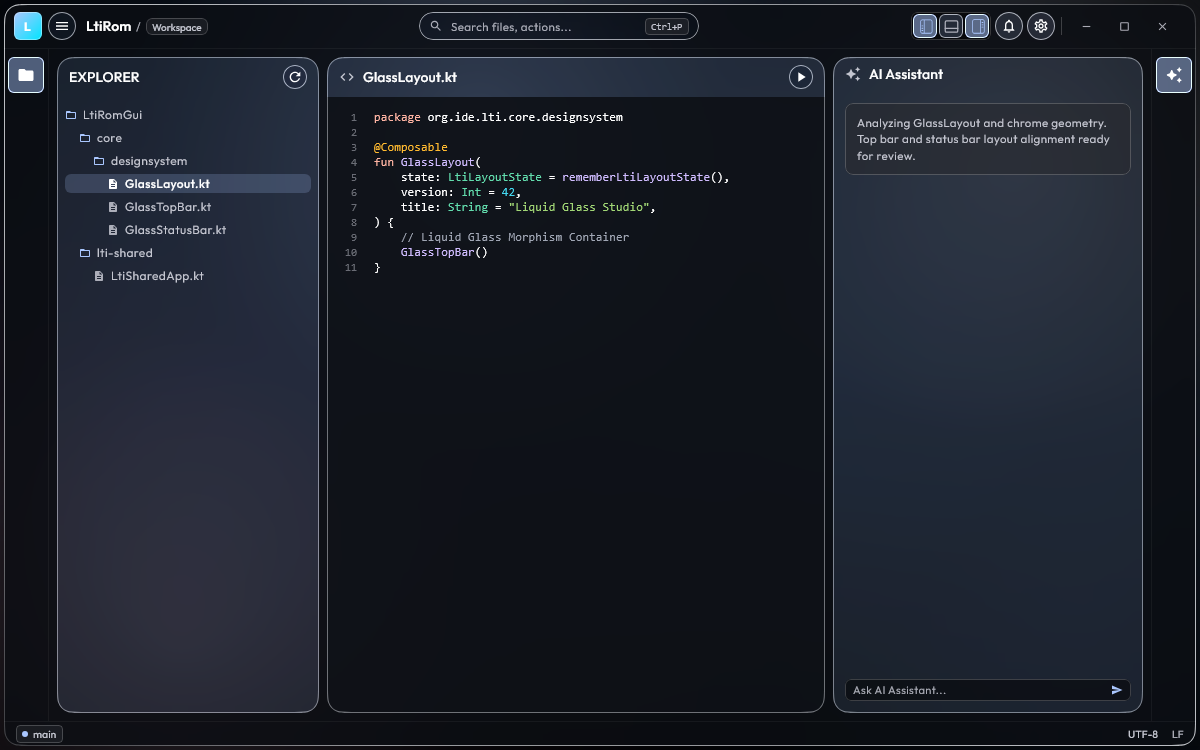
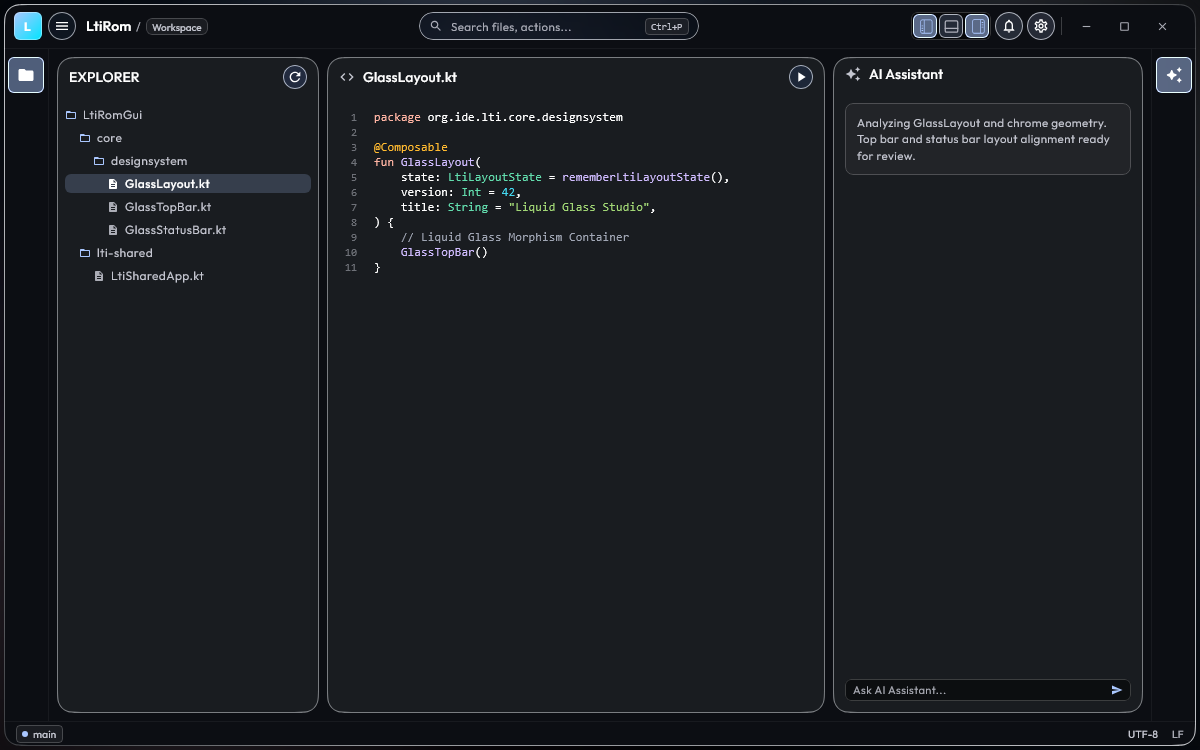
Make chrome/canvas surfaces opaque, matching a real reference IDE
The outer chrome frame and inner content panels (Explorer, editor, AI
Assistant) were translucent glass surfaces sampling the aurora backdrop,
so their on-screen color drifted with whatever was behind them rather
than reading as flat, professional dark/light grays.

Added chromeSurface (surfaceContainerLowest) and repointed canvasSurface
to surfaceContainerLow, both fully opaque instead of alpha-blended. This
puts the chrome frame one step darker (dark theme) / one step grayer
(light theme) than the content panels, matching a Fleet IDE reference
screenshot almost exactly: measured #0C0E13 outer / #191C20 inner against
a #090909 / #18191B reference. Editor, Explorer, and AI panels are now
the same uniform shade, as in the reference, instead of three
independently-sampled translucent surfaces.

Derived from the same seed-color HCT ladder as every other token, so it
holds correctly in both dark and light themes rather than being a fixed
pair of hex values.

Claude-Session: https://claude.ai/code/session_0159mNcRLJay2RPBEyxhqFt6

Changed region(s): [[0.0308, 0.0613, 0.9558, 0.92]]

diff --git a/core/designsystem/src/commonMain/kotlin/org/ide/lti/core/designsystem/theme/Color.kt b/core/designsystem/src/commonMain/kotlin/org/ide/lti/core/designsystem/theme/Color.kt
@@ -153,6 +153,7 @@ fun deriveDiagnosticColors(
 data class GlassColorScheme(
     val glassSurface: Color,
     val glassSurfaceElevated: Color,
+    val chromeSurface: Color,
     val canvasSurface: Color,
     val glassTint: Color,
     val glassTintSecondary: Color,
@@ -188,7 +189,8 @@ fun dynamicGlassColorScheme(
         GlassColorScheme(
             glassSurface = colorScheme.surface.copy(alpha = AlphaTokens.Elevated),
             glassSurfaceElevated = colorScheme.surfaceContainerHigh.copy(alpha = AlphaTokens.Prominent),
-            canvasSurface = colorScheme.surfaceContainerLowest.copy(alpha = AlphaTokens.PrimaryButtonTint),
+            chromeSurface = colorScheme.surfaceContainerLowest,
+            canvasSurface = colorScheme.surfaceContainerLow,
             glassTint = colorScheme.primary.copy(alpha = AlphaTokens.Glow),
             glassTintSecondary = colorScheme.secondary.copy(alpha = AlphaTokens.Glow),
             glassBorder = colorScheme.onSurface.copy(alpha = AlphaTokens.Hover),
@@ -207,7 +209,8 @@ fun dynamicGlassColorScheme(
         GlassColorScheme(
             glassSurface = colorScheme.surface.copy(alpha = AlphaTokens.IconTint),
             glassSurfaceElevated = colorScheme.surfaceContainerHighest.copy(alpha = AlphaTokens.PrimaryButtonTint),
-            canvasSurface = colorScheme.surfaceContainerLowest.copy(alpha = AlphaTokens.PrimaryButtonTint),
+            chromeSurface = colorScheme.surfaceContainer,
+            canvasSurface = colorScheme.surfaceContainerLowest,
             glassTint = colorScheme.primary.copy(alpha = AlphaTokens.Subtle),
             glassTintSecondary = colorScheme.secondary.copy(alpha = AlphaTokens.Subtle),
             glassBorder = colorScheme.outline.copy(alpha = AlphaTokens.Medium),

diff --git a/core/designsystem/src/commonMain/kotlin/org/ide/lti/core/designsystem/component/GlassLayout.kt b/core/designsystem/src/commonMain/kotlin/org/ide/lti/core/designsystem/component/GlassLayout.kt
@@ -227,7 +227,7 @@ fun GlassLayout(
             },
         shape = panelShape,
         backdrop = actualBackdrop,
-        surfaceColor = glassColors.canvasSurface,
+        surfaceColor = glassColors.chromeSurface,
         tint = Color.Transparent,
         borderColor = glassColors.glassBorder,
         borderWidth = StrokeWidth.Hairline,
@@ -388,8 +388,8 @@ private fun GlassContentPanel(
         modifier = modifier,
         shape = ContinuousRoundedRectangle(ThemeCornerRadius.Panel),
         backdrop = backdrop,
-        surfaceColor = glassColors.glassSurface,
-        tint = glassColors.glassTint,
+        surfaceColor = glassColors.canvasSurface,
+        tint = Color.Transparent,
         borderColor = if (isFocused) glassColors.glassBorderHighlight else Color.Unspecified,
         borderWidth = StrokeWidth.Hairline,
         effects = if (isDragging) {
